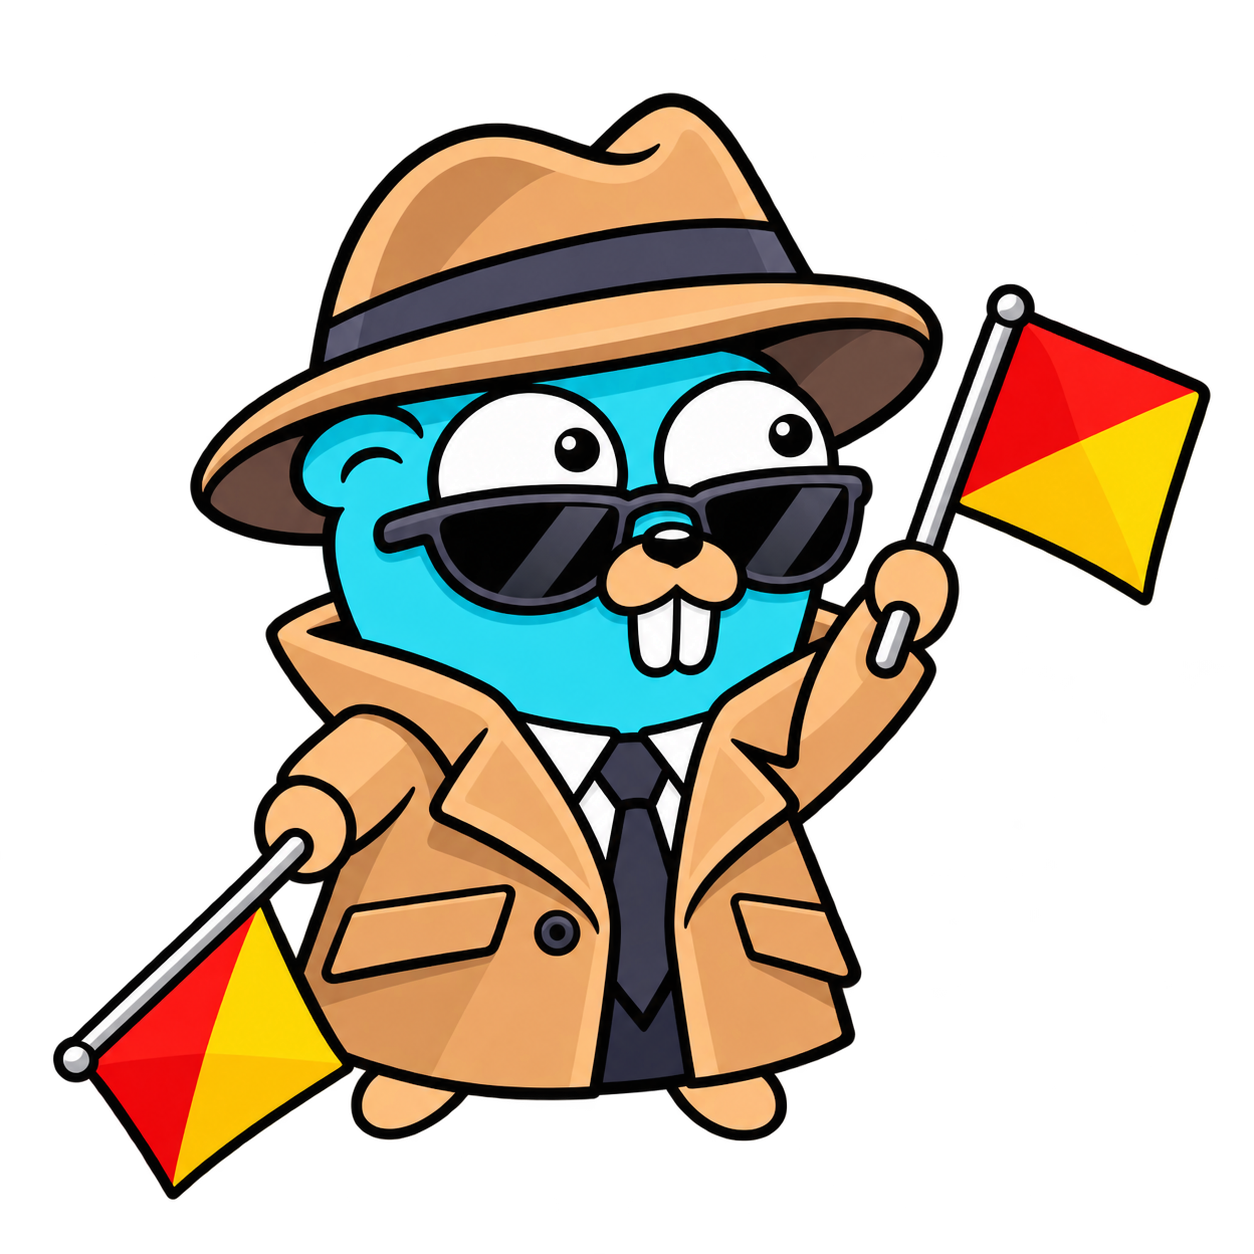
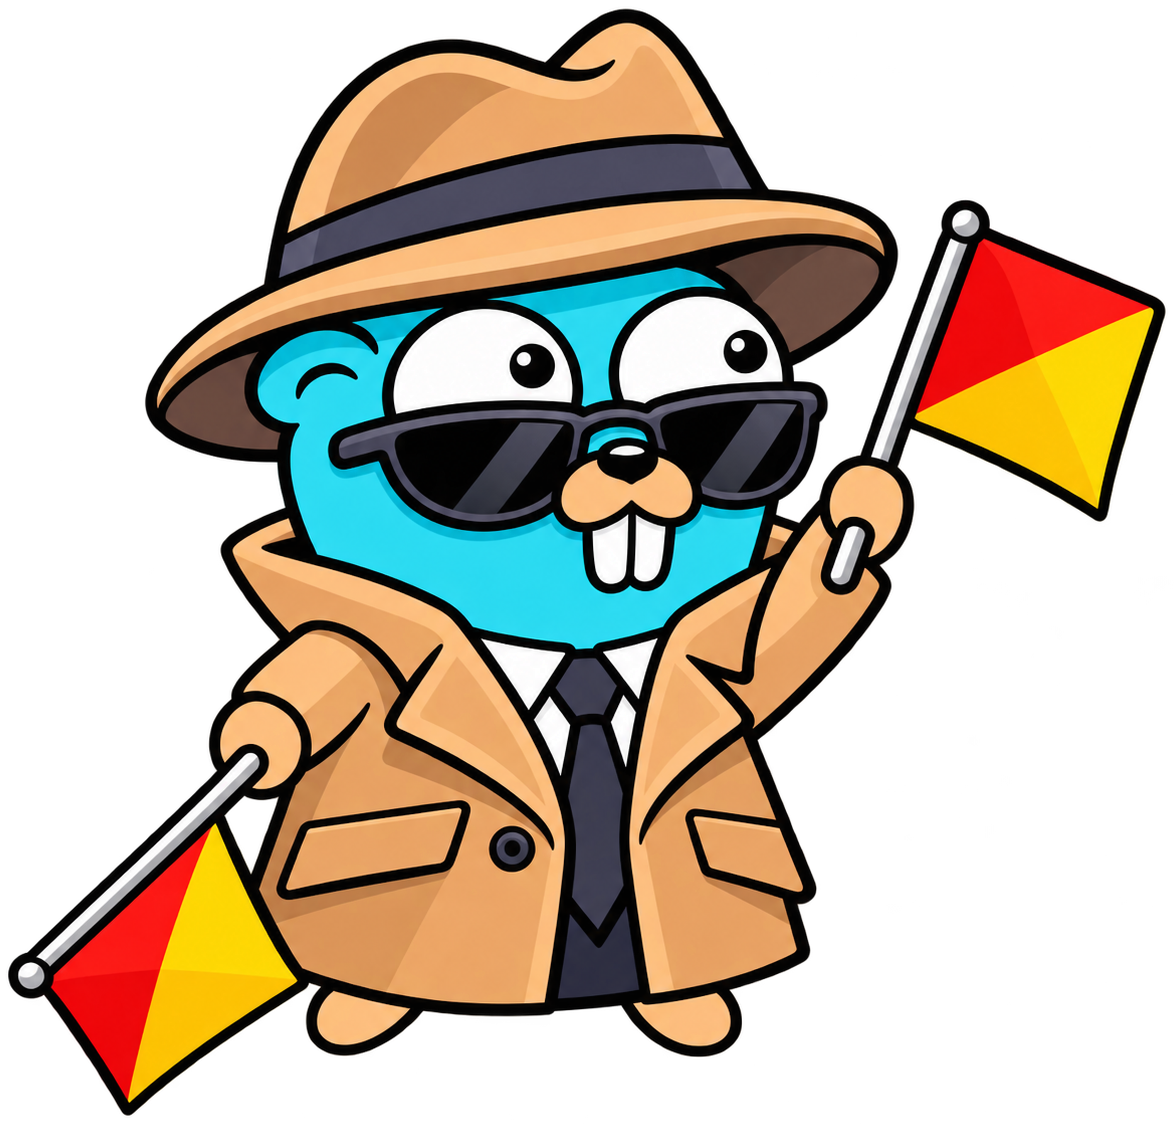
docs(readme): trim gopher padding and set height to 100px
Crop transparent margin from GoSignals-Gopher-512.png (1254x1254 ->
1174x1124) so the README header has less empty space below the image.

(cherry picked from commit 513f13af97445703839a6441f7c47d0a7a920a85)

diff --git a/README.md b/README.md
@@ -1,4 +1,4 @@
-<img src="docs/images/GoSignals-Gopher-512.png" alt="goSignals" height="96">
+<img src="docs/images/GoSignals-Gopher-512.png" alt="goSignals" height="100">
 
 # goSignals
 
